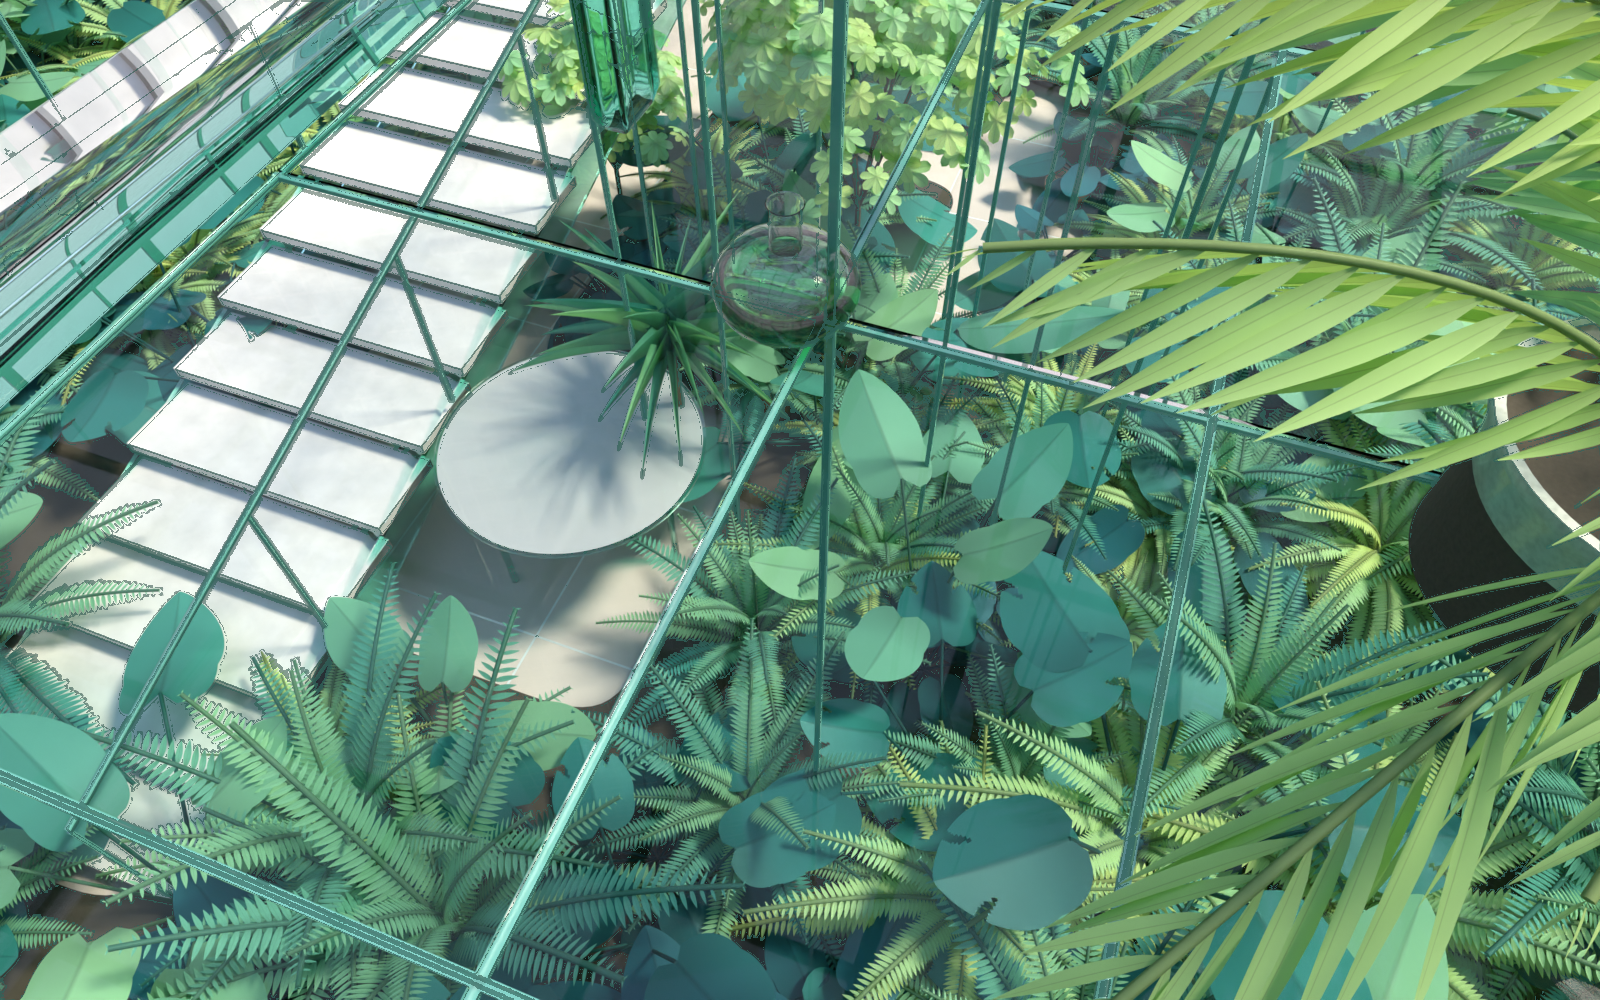
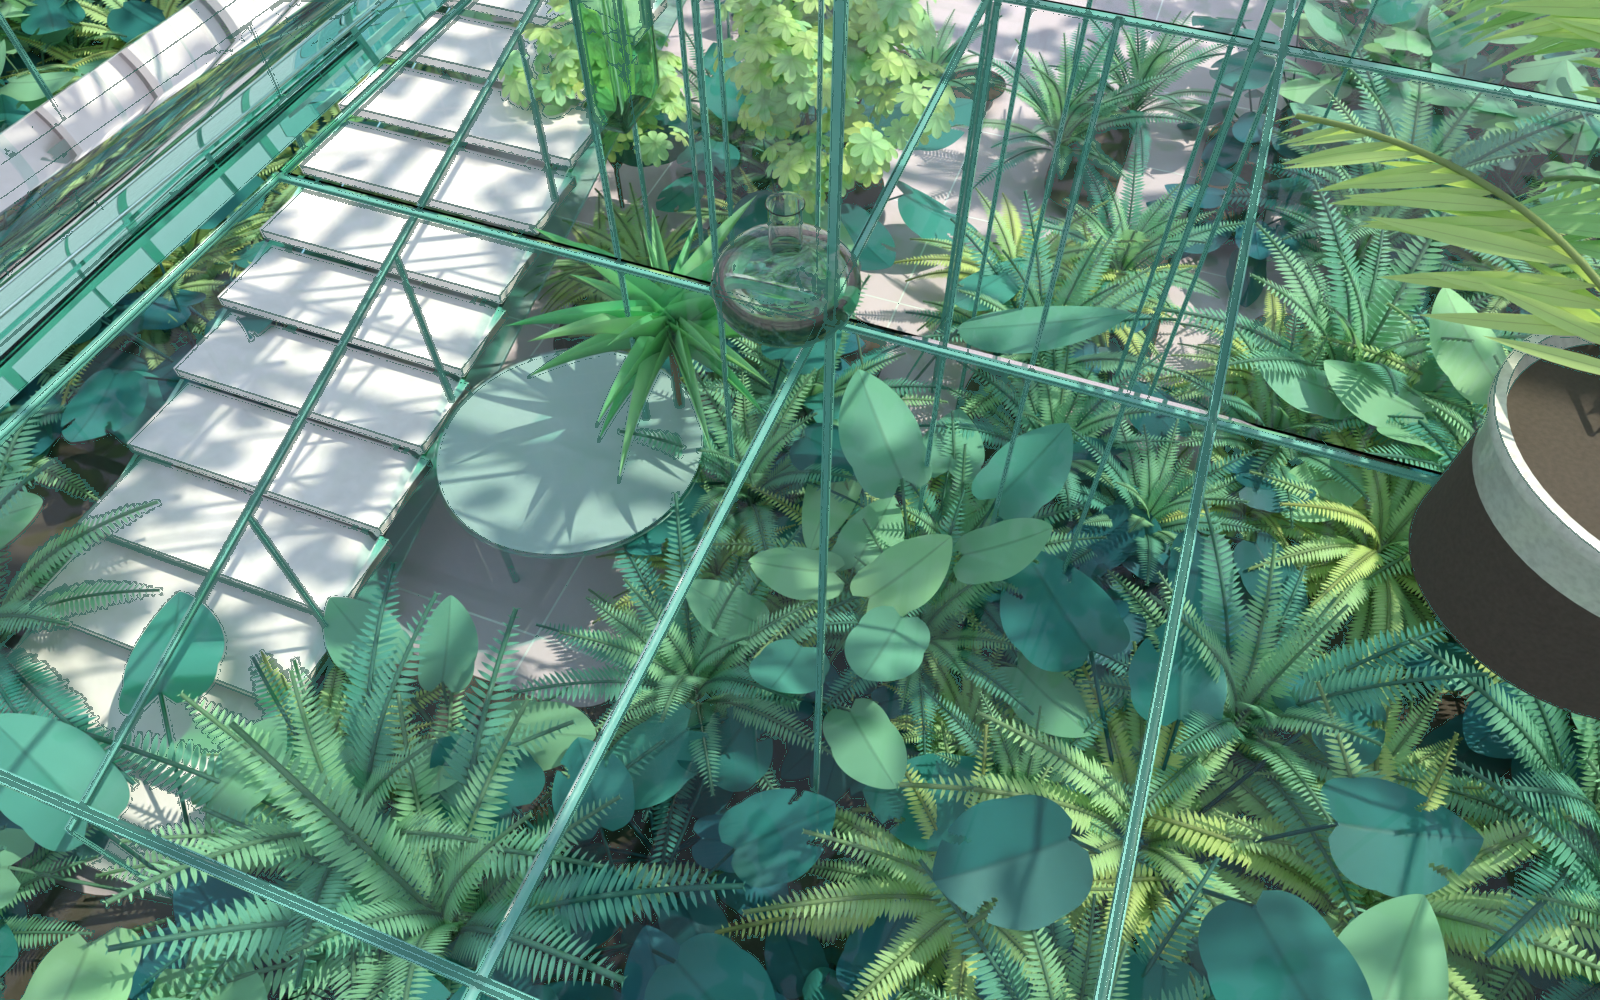
玻璃中庭：全分辨率重渲与说明更新（色调误差 0.088）

diff --git a/Other/Greenhouse/Scenes/GlassAtrium/README.md b/Other/Greenhouse/Scenes/GlassAtrium/README.md
@@ -38,18 +38,22 @@ blender -b -P Other/build.py -- Greenhouse/Scenes/GlassAtrium --view overview --
 * **立柱**：20 mm 玉石方柱，按原画里的竖线落位；原画只在画廊地面以下出现的几根止于地面下。
 * **楼梯**：宽 1.5 m 的双跑楼梯，踏步 0.433 m、踢面 0.123 m；下跑 14 级到 z = −1.354 的平台，上跑 11 级转向西翼。
   踏步位置由原画的踏步前沿线联合拟合（残差 16 px rms）。
-* **中庭花园**：`calibration/planting_plan.py` 把花园地面分成 0.5 m 的格子，把每格上方 0.3–2.6 m 的高度点投回原画：
-  原画在那里画着植物，就允许种到那么高（地被 / 林下 / 灌木三档）；看到的是浅色地面就铺石板；只隔着玻璃器皿看得到的格子
-  取邻格的档；机位看不到的格子按设计种满，只留出楼梯脚、北墙前的铺装庭院和园桌下的地面。主景植物（`Painted ...`）
-  各放在原画里那团植物中心像素按树冠高度反投影到的位置。北侧看不见的角落有三棵伞树，树荫落在庭院地面上，是原画栏杆后面
-  那片地面绿粉斑驳的来源。
-* **画廊陈设**：每件都按原画拟合位姿——高玻璃方瓶、扁球烧瓶（原画画成扁的，用 `Squash` 做成扁球体）、边桌，
-  桌上的手机、玻璃块、玻璃球、花插按原画的角点最小二乘解出位置与朝向；栏杆内侧一盆双干散尾葵。
+* **中庭花园**：`calibration/planting_plan.py` 把花园地面分成 0.5 m 的格子，先把格子自己的土面、再把其上 0.3–2.6 m 的
+  高度点投回原画：原画在那里画着植物，就允许种到那么高（地被 / 林下 / 灌木三档）；看到的是浅色地面就铺石板（格子上方的点
+  投得更高，可能落在后面的植物上，所以只有土面本身能说明这格是不是铺地；地面上橙黄的光斑色相低于叶子，不算植物）；只隔着
+  玻璃器皿看得到的格子取邻格的档；机位看不到的格子按设计种满，只留出楼梯脚、北墙前的铺装庭院和园桌下的地面。主景植物
+  （`Painted ...`）各放在原画里那团植物中心像素按树冠高度反投影到的位置，树冠大小按原画那团的范围。
+* **屋顶藤蔓**：藤蔓沿屋顶框架攀爬，离画廊地面 6.3–6.6 m，高于原画机位的所有视线——原画里看不到它，只看得到它投下的
+  斑驳日影：庭院、踏步、画廊地面上叶形的光斑，和叶隙间的光柱。北侧看不见的角落另有三棵伞树。
+* **画廊陈设**：每件都按原画拟合位姿——高玻璃方瓶（4 mm 薄壁绿玻璃空瓶）、扁球烧瓶（原画画成扁的，用 `Squash` 做成
+  扁球体）、边桌，桌上的手机、玻璃块、玻璃球、花插按原画的角点最小二乘解出位置与朝向；栏杆内侧一盆双干散尾葵，叶子只朝
+  背离机位的那一侧伸展（原画里看不到伸向机位的叶子，它下面是一片深暗的花园）。
 * **吊球**：四个开口玻璃吊球，每个球的中心和半径由原画的圆轮廓反投影解出，开口朝向机位。
 * **外壳与窗外**：四面幕墙（北墙是结构胶玻璃，只有横档）和 2 m 网格玻璃屋顶。温室在 117 m 高的塔楼顶上：
   画面最上一行也在地平线以下 6°，所以窗外的粉白是阳光下的城市烟霭，不是天空。塔北侧 16 m 以下是裙楼屋顶花园，
-  那些树冠按原画树冠轮廓的顶点定位（30–50 m 外，树干和屋面都在视线以下），更远是一栋矮楼屋顶的树和邻楼。
-  城市烟霭是包住温室的体积（温室内部挖空），室内另有一层前向散射的薄光雾。
+  那些树冠按原画树冠轮廓的顶点定位（30–45 m 外）；裙楼只伸出 33 m，刚好在它的屋面升到"穿过北墙墙脚的视线"之上以前
+  收住，所以屋面从来看不到，再往外视线直接落进烟霭。更远 84 m 处一栋矮楼屋顶上有一棵远树（冠宽 6.3 m，按原画那团淡影
+  定大小），那栋楼同样收在视线以下；左上方是邻楼。城市烟霭是包住温室的体积（温室内部挖空），室内另有一层前向散射的薄光雾。
 
 ## 3. 原画中"反 3D"的结构与处理
 
@@ -61,6 +65,8 @@ blender -b -P Other/build.py -- Greenhouse/Scenes/GlassAtrium --view overview --
 | 烧瓶画得比球扁 | 做成扁球体烧瓶（`Squash` 0.665），轮廓按原画椭圆拟合 |
 | 楼梯前沿只收敛到竖直灭点，踏步比普通楼梯宽而浅 | 宽 1.5 m、踏步 0.433 m 的景观楼梯，加平台和转向西翼的上跑，楼梯有出发点也有去处 |
 | 窗外树冠贴着玻璃，却看不到树干和地面 | 树种在低 16 m 的裙楼屋顶，树冠顶点按原画轮廓，树干和屋面落在所有穿过幕墙的视线以下 |
+| 窗外远处除了烟霭和一棵淡淡的远树，什么屋面都没有 | 每一片屋面都在它升到"穿过北墙墙脚的视线"之上以前收住 |
+| 庭院、踏步、画廊地面上处处是叶形的斑驳日影，头顶却看不到任何遮挡 | 屋顶框架上的藤蔓——在原画机位所有视线之上，只露出它的影子 |
 | 立柱成对出现、间距不均 | 按原画位置保留：结构柱加栏杆立柱，两套构件并排 |
 | 去人物参考画里没有原画中的椅子 | 不做椅子 |
 
@@ -69,14 +75,16 @@ blender -b -P Other/build.py -- Greenhouse/Scenes/GlassAtrium --view overview --
 Cycles，Standard 视图变换，不调色。
 
 * **玉**：框架、梁、立柱、栏杆是抛光玉石（次表面散射 + 清漆），玻璃器皿是带体积吸收的电介质玉色玻璃（正看几乎透明，
-  侧看和边缘深青），高方瓶内壁空心、烧瓶装着绿水。
+  侧看和边缘深青）；高方瓶是 4 mm 薄壁的绿玻璃空瓶，烧瓶装着淡绿的水。
 * **建筑玻璃**：镀减反射膜——反射率曲线等于 IOR 1.22 的电介质（正看约 1%，掠射时变成镜面），所以脚下的玻璃地面清透，
   远处的地面泛白，映出粉色的墙。
 * **光穿过玻璃**：玻璃对相机光线和镜面反射光线是真实电介质；对阴影光线和漫反射光线是带色透明（菲涅尔损失 × 半壁厚的
   比尔–朗伯透射）——折射后的光本来是焦散路径，渲染器不追踪，否则阳光和天光都进不了温室。
 * **墨线**：原画是勾线的。另开一个视图层，用对象随机值 + 元素编号着色，在合成器里对身份色和法线做 Sobel 得到轮廓与折线；
   玻璃标记为可透视（只在掠射的边缘出线），植物和铺装标记为安静（不出线，并挖掉背后的线）。
-* **城市烟霭**：`GH.Smog` 用空气透视的闭式解：吸收介质 + 按密度发光，只对非漫反射光线发光。
+* **城市烟霭**：`GH.Smog` 用空气透视的闭式解：吸收介质 + 按密度发光。烟霭包住温室，所以室内透过每一块玻璃看到的
+  也是它：它的粉光照进室内，是午后雾霭的粉色环境光（地面、踏步、高光都带着粉色）。
+* **日光**：太阳按真实大小（0.53°），九米高的藤蔓投下的光斑边缘清晰；铺地是淡紫粉色的石材。
 
 ## 5. 灯光标定（`calibration/fit_lights.py`）
 
@@ -96,10 +104,10 @@ python Other/Greenhouse/Scenes/GlassAtrium/calibration/fit_lights.py groups.npz 
 | 指标 | 值 |
 |------|----|
 | 结构线对齐（钢玻结构与楼梯的轮廓，逐像素到原画边缘的距离） | 中位数 2.8 px；2 px 内 44.9%，4 px 内 62.7%，8 px 内 83.7% |
-| 逐像素平均绝对误差（sRGB 0–1） | 0.206 |
-| 色调误差（1/60 画宽高斯模糊后，只看颜色与明暗分布） | 0.109 |
-| 模糊后色差 ΔE*ab | 中位数 15.3，90% 分位 28.6 |
-| 标定历程（色调误差） | 初版 0.178 → 远景烟霭 0.122 → 灯光反解 0.114 → 玻璃对漫射光透明、日光组、分带色阶 0.109 |
+| 逐像素平均绝对误差（sRGB 0–1） | 0.188 |
+| 色调误差（1/60 画宽高斯模糊后，只看颜色与明暗分布） | 0.088 |
+| 模糊后色差 ΔE*ab | 中位数 13.6，90% 分位 26.3 |
+| 标定历程（色调误差） | 初版 0.178 → 远景烟霭 0.122 → 灯光反解 0.114 → 玻璃对漫射光透明、日光组、分带色阶 0.109 → 种植图先验土面、屋顶藤蔓日影、烟霭粉色环境光、散尾葵背向机位、方瓶内腔修正 0.088 |
 
-剩余差异：逐片叶子的构成（手绘植物的位置与轮廓无法从单张画面唯一确定）；原画花园里成片的斑驳日光与深青阴影比渲染更强；
-栏杆后庭院地面的斑驳树影；手绘的高光笔触和光柱强度。
+剩余差异：逐片叶子的构成（手绘植物的位置与轮廓无法从单张画面唯一确定）；原画花园最深处的深青暗部比渲染更暗、
+阳光下的叶子更黄更亮；手绘的高光笔触和光柱强度。
